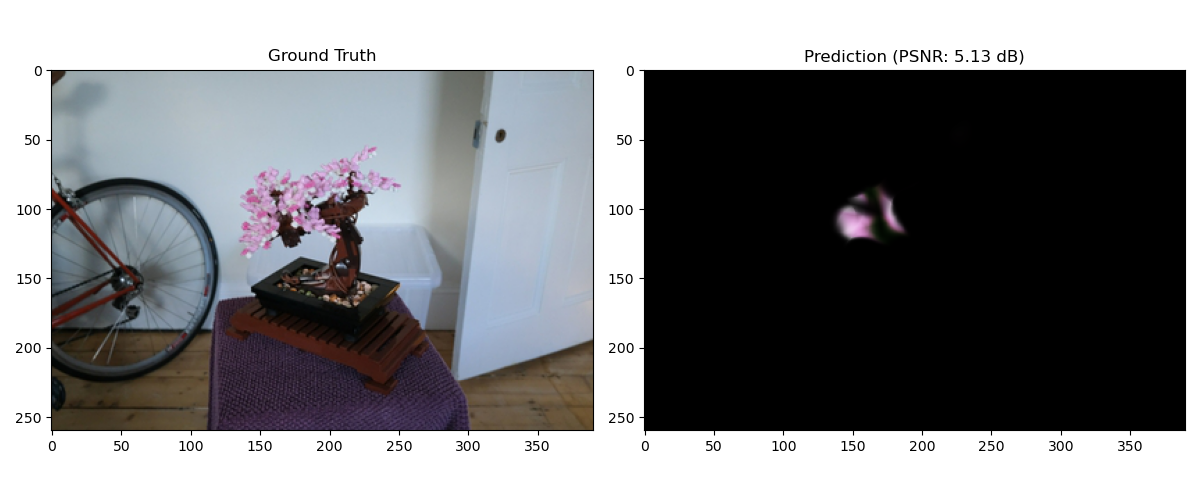
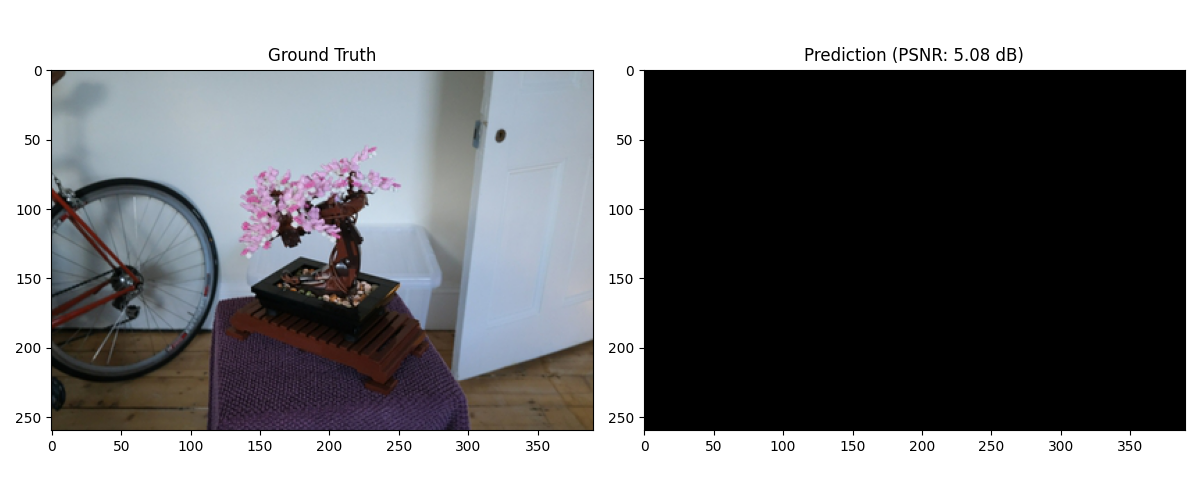
viz every MLP & add TODO

diff --git a/mip360/visualize.py b/mip360/visualize.py
@@ -2,18 +2,18 @@ import torch
 import matplotlib.pyplot as plt
 from model import NeuralPrimitiveScene
 from mip360_loader import mip360Dataset
+import os
+import imageio
+import numpy as np
+from tqdm import tqdm
 
-fig = None
-ax0_img = None
-ax1_img = None
 
 @torch.no_grad()
-def evaluate_and_visualize(data_dir, model_ckpt=None, N=1024, device='cuda', block=False, mlp_idx=None):
-    global fig, ax0_img, ax1_img
+def evaluate_and_visualize(data_dir, output_dir, model_ckpt=None, N=1024, device='cuda', block=False, mlp_idx=None, loop_all=False):
     dataset = mip360Dataset(data_dir, split='train')
     img_idx = 200
     rays_o, rays_d, rgbs = dataset[img_idx]  # pick first image for evaluation
-
+    height, width = rgbs.shape[:2]
     rays_o = rays_o.to(device).view(-1, 3)  # [H*W, 3]
     rays_d = rays_d.to(device).view(-1, 3)
     gt_rgb = rgbs.to(device).view(-1, 3)
@@ -21,12 +21,12 @@ def evaluate_and_visualize(data_dir, model_ckpt=None, N=1024, device='cuda', blo
     scene = NeuralPrimitiveScene(N).to(device)
     if model_ckpt:
         scene.load_state_dict(model_ckpt)
-    # TODO debug, only viz subset mlps
-    if mlp_idx is not None:
-        scene.num_primitives = len(mlp_idx)
-        scene.mlps = torch.nn.ModuleList([scene.mlps[i] for i in mlp_idx])
-        scene.positions = torch.nn.Parameter(scene.positions[mlp_idx])
-        scene.log_scales = torch.nn.Parameter(scene.log_scales[mlp_idx])
+    # # TODO debug, only viz subset mlps
+    # if mlp_idx is not None:
+    #     scene.num_primitives = len(mlp_idx)
+    #     scene.mlps = torch.nn.ModuleList([scene.mlps[i] for i in mlp_idx])
+    #     scene.positions = torch.nn.Parameter(scene.positions[mlp_idx])
+    #     scene.log_scales = torch.nn.Parameter(scene.log_scales[mlp_idx])
     # TODO debug, only viz subset mlps
     # import pdb; pdb.set_trace()
     #print('scene positions ', scene.positions)
@@ -40,37 +40,44 @@ def evaluate_and_visualize(data_dir, model_ckpt=None, N=1024, device='cuda', blo
     #print("Top 10 largest scales:")
     #print(top10_values)
 
+    # get the index of scales between 0.1 - 10
+    scale_idx = torch.where((scales > 0.1) & (scales < 10))[0]
+    mlp_idx_t = torch.as_tensor(mlp_idx, device=scale_idx.device)
+    mlp_idx = mlp_idx_t[scale_idx.long()]
+    mlp_idx = mlp_idx.tolist()
+
     pred_rgb = []
     batch_size = 100000
-    #batch_size = rays_o.shape[0]
-    for i in range(0, rays_o.shape[0], batch_size):
-        pred_rgb.append(scene(rays_o[i:i+batch_size], rays_d[i:i+batch_size]))
-    print('invalid num ', scene.invalid_nums)
-    pred_rgb = torch.cat(pred_rgb, dim=0)
+    if loop_all:    # loop over each mlp id individually
+        for mlp_id in tqdm(mlp_idx):
+            pred_rgb = []
+            for i in range(0, rays_o.shape[0], batch_size):
+                pred_rgb.append(scene(rays_o[i:i + batch_size], rays_d[i:i + batch_size], [mlp_id]))    # model forward can take chosen mlp_idx
+            pred_rgb = torch.cat(pred_rgb, dim=0)
+            pred_img = pred_rgb.view(1, height, width, 3).clamp(0, 1).cpu()
+            gt_img = gt_rgb.view(1, height, width, 3).cpu()
+            viz(pred_img, gt_img, [mlp_id], img_idx, scales[mlp_id], output_dir, block=block)
+    else:   # infer the list of mlp_idx together
+        for i in range(0, rays_o.shape[0], batch_size):
+            pred_rgb.append(scene(rays_o[i:i+batch_size], rays_d[i:i+batch_size], mlp_idx))
+        print('invalid num ', scene.invalid_nums)
+        pred_rgb = torch.cat(pred_rgb, dim=0)
+        pred_img = pred_rgb.view(1, height, width, 3).clamp(0, 1).cpu()
+        gt_img = gt_rgb.view(1, height, width, 3).cpu()
+        viz(pred_img, gt_img, mlp_idx, img_idx, scales, output_dir, block=block)
 
-    pred_img = pred_rgb.view(1, 260, 390, 3).clamp(0, 1).cpu()
-    gt_img = gt_rgb.view(1, 260, 390, 3).cpu()
 
+def viz(pred_img, gt_img, mlp_idx, img_idx, scale, output_dir, block=False):
     psnr = -10 * torch.log10(torch.mean((pred_img - gt_img) ** 2)).item()
 
-    if fig is None:
-        fig, axes = plt.subplots(1, 2, figsize=(12, 5))
-        ax0_img = axes[0].imshow(gt_img[0].numpy())
-        axes[0].set_title("Ground Truth")
-        ax1_img = axes[1].imshow(pred_img[0].numpy())
-        axes[1].set_title(f"Prediction (PSNR: {psnr:.2f} dB)")
-        plt.tight_layout()
-        plt.ion()
+    # show gt and pred side by side
+    viz_img = torch.cat([gt_img[0], pred_img[0]], dim=1)
+    viz_img = viz_img.cpu().numpy()
+    viz_img = (viz_img * 255).astype('uint8')  # convert to uint8 for visualization
+    if block:
+        # show img with psnr in title
+        plt.imshow(viz_img)
+        plt.title(f"PSNR: {psnr:.2f} dB, MLPs: {mlp_idx[0]}-{mlp_idx[-1]}")
+        plt.axis('off')
         plt.show()
-    else:
-        ax0_img.set_data(gt_img[0].numpy())
-        ax1_img.set_data(pred_img[0].numpy())
-        ax1_img.axes.set_title(f"Prediction (PSNR: {psnr:.2f} dB)")
-        fig.canvas.draw()
-        fig.canvas.flush_events()
-
-    a = mlp_idx[0]
-    b = mlp_idx[-1]
-    plt.pause(0.001)
-    plt.savefig("img_{img_idx}_mlp_{a}_{b}.png".format(img_idx=img_idx, a=a, b=b))
-    plt.show(block=block)
+    imageio.imwrite(os.path.join(output_dir, f"img_{img_idx}_mlp_{mlp_idx[0]}_{mlp_idx[-1]}_scale_{scale[0].item():.3f}.png"), viz_img)

diff --git a/mip360/run_eval.py b/mip360/run_eval.py
@@ -1,6 +1,9 @@
 from visualize import evaluate_and_visualize
 import torch
-
+import os
+from datetime import datetime
+import uuid
+from tqdm import tqdm
  
 """
 if __name__ == "__main__":
@@ -31,10 +34,16 @@ def strip_orig_mod_prefix(state_dict):
     return new_state_dict
 
 if __name__ == "__main__":
-    # Change to your scene path
-    data_dir = "/home/yuzhou/Desktop/datasets/360_v2/bonsai"
-    model_ckpt_path = "/home/yuzhou/Desktop/output/mip360/20250731_215818_67f2c929/scene_epoch_80000.pt"
+    # TODO Change to your scene path
+    # data_dir = "/home/yuzhou/Desktop/datasets/360_v2/bonsai"
+    # model_ckpt_path = "/home/yuzhou/Desktop/output/mip360/20250731_215818_67f2c929/scene_epoch_80000.pt"
+    data_dir = "/home/xin/data/mipnerf360/bonsai"
+    model_ckpt_path = "scene_epoch_62000.pt"
 
+    output_root = "./logs/"
+    random_tag = datetime.now().strftime("%Y%m%d_%H%M%S") + "_" + str(uuid.uuid4())[:8]
+    output_dir = os.path.join(output_root, random_tag)
+    os.makedirs(output_dir, exist_ok=True)
     model_ckpt = torch.load(model_ckpt_path, map_location='cpu') if model_ckpt_path else None
     
     # ✅ 处理 key 前缀
@@ -42,11 +51,14 @@ if __name__ == "__main__":
         model_ckpt = strip_orig_mod_prefix(model_ckpt)
 
     # 可修改为 list(range(N)) 以渲染所有 MLPs
-    mlp_idx = list(range(894, 895))  
-    #mlp_idx = None
+    # mlp_idx = list(range(894, 895))
+    mlp_idx = list(range(1024))
 
     # 如果训练时是 N=1024 个 primitive，那这里也得一致
-    evaluate_and_visualize(data_dir, model_ckpt=model_ckpt, block=True, mlp_idx=mlp_idx, N=1024)
+    evaluate_and_visualize(data_dir, output_dir, model_ckpt=model_ckpt, block=True, mlp_idx=mlp_idx, N=1024)
+
+    # loop over all primitives and save each rendered image
+    evaluate_and_visualize(data_dir, output_dir, model_ckpt=model_ckpt, block=False, mlp_idx=mlp_idx, N=1024, loop_all=True)
 
 
 

diff --git a/mip360/model.py b/mip360/model.py
@@ -120,7 +120,7 @@ class NeuralPrimitiveScene(nn.Module):
 
 
     
-    def forward(self, ray_o, ray_d):
+    def forward(self, ray_o, ray_d, mlp_id=None):
         self.invalid_nums = 0
         B = ray_o.shape[0]
         N = self.num_primitives
@@ -135,15 +135,20 @@ class NeuralPrimitiveScene(nn.Module):
         proj = ray_o_expand + t * ray_d_expand
         vec_perp = center_expand - proj
 
-        z_vals = t.squeeze(-1)
-        sorted_inds = torch.argsort(z_vals, dim=0)
-
         rgb_list = []
         sigma_list = []
 
         scales = torch.exp(self.log_scales)
 
-        for i in range(N):
+        if mlp_id is None:
+            mlp_id = torch.arange(N, device=ray_o.device)
+            z_vals = t.squeeze(-1)
+            sorted_inds = torch.argsort(z_vals, dim=0)
+        else:
+            z_vals = t.squeeze(-1)[mlp_id]
+            sorted_inds = torch.argsort(z_vals, dim=0)
+
+        for i in mlp_id:
             dist = vec_perp[i]  # (B, 3)
             norm = torch.norm(dist, dim=-1, keepdim=True)  # (B, 1)
 
@@ -192,7 +197,6 @@ class NeuralPrimitiveScene(nn.Module):
 
         rgb = torch.stack(rgb_list, dim=0)
         sigma = torch.stack(sigma_list, dim=0)
-
         rgb_sorted = torch.gather(rgb, 0, sorted_inds.unsqueeze(-1).expand(-1, -1, 3))
         sigma_sorted = torch.gather(sigma, 0, sorted_inds.unsqueeze(-1))
 

diff --git a/mip360/run.py b/mip360/run.py
@@ -2,6 +2,9 @@ from train import train_scene_llff
 import torch
 import numpy as np
 import random
+import os
+import uuid
+from datetime import datetime
 
 def set_seed(seed=42):
     random.seed(seed)
@@ -15,6 +18,13 @@ def set_seed(seed=42):
 if __name__ == "__main__":
     set_seed(2025)
     #torch.set_float32_matmul_precision('high')
-    #data_dir = "/home/xin/data/nerf/nerf_example_data/nerf_llff_data/fern"
-    data_dir = "/home/yuzhou/Desktop/datasets/360_v2/bonsai"
-    train_scene_llff(data_dir, num_epochs=100000, batch_size=4096*3, initial_num_primitives=1024)
+    # TODO Change to your scene path
+    # data_dir = "/home/yuzhou/Desktop/datasets/360_v2/bonsai"
+    # output_root = "/home/yuzhou/Desktop/output/mip360"
+    data_dir = "/home/xin/data/mipnerf360/bonsai"
+    output_root = "./output/mip360"
+    # Set saving directory
+    random_tag = datetime.now().strftime("%Y%m%d_%H%M%S") + "_" + str(uuid.uuid4())[:8]
+    output_dir = os.path.join(output_root, random_tag)
+    os.makedirs(output_dir, exist_ok=True)
+    train_scene_llff(data_dir, output_dir, num_epochs=100000, batch_size=4096*3, initial_num_primitives=1024)

diff --git a/mip360/train.py b/mip360/train.py
@@ -1,6 +1,4 @@
 import os
-import uuid
-from datetime import datetime
 
 import torch
 import torch.nn.functional as F
@@ -129,14 +127,7 @@ def get_mlp_lr(iteration, max_steps=100000, init_lr=1e-3, final_lr=1e-4):
         return init_lr * (1 - alpha) + final_lr * alpha
 
 
-def train_scene_llff(data_dir, num_epochs=10, batch_size=4096, lr=1e-3, device='cuda', initial_num_primitives=1024):
-    # Set saving directory
-    output_root = "/home/yuzhou/Desktop/output/mip360"
-    os.makedirs(output_root, exist_ok=True)
-    random_tag = datetime.now().strftime("%Y%m%d_%H%M%S") + "_" + str(uuid.uuid4())[:8]
-    output_dir = os.path.join(output_root, random_tag)
-    os.makedirs(output_dir, exist_ok=True)
-
+def train_scene_llff(data_dir, output_dir, num_epochs=10, batch_size=4096, lr=1e-3, device='cuda', initial_num_primitives=1024):
     dataset = mip360Dataset(data_dir)
     scene = NeuralPrimitiveScene(num_primitives=initial_num_primitives, initial_positions=dataset.positions).to(device)
     #optimizer = torch.optim.Adam(scene.parameters(), lr=lr)

diff --git a/ReadME.md b/ReadME.md
@@ -1,0 +1,22 @@
+# Motivation
+3D representation is the key in 3D computer vision / reconstruction / novel view sysnthesis. 
+Gaussian Splatting is a handcraft primitive but mainly benefits from:
+1. the ultra fast parallel "splatting" to convert 3D primitive property (e.g., density, color, radius) to 2D.
+2. the 3D gaussian is very lightweight, with only a few float numbers
+
+However, a 3D scene needs over 10K 3dgs to represent / reconstruct.
+
+Can we find a much more flexible and less handcraft 3D representation that can be optimized efficiently?
+
+1. MLP is the most basic and flexible 3D representation, it is light weight and can be parallelized.
+2. The NeRF way of interacting with MLP is very compicated due to the dense sampling along the ray. In contrast, 3dgs is a simple "splatting" and light field is per ray computation (no sampling along the ray).
+Therefore, we treat each MLP as a 3D primitive, and use the "splatting" way, each ray (ray_d, a normalised 3d vector, the ray direction), interacts with MLP (weights, scale, center), will have a distance (dist, a scalar), then the output (density, rgb) of this ray from this MLP is identical.
+Mathematically:
+```math
+density, rgb = MLP(ray_d, dist)
+```
+
+
+# TODO
+[ ] Visualize all MLPs for one image, check every MLP
+[ ] Visualize a single MLP on different images / angles, to check its 3D shape
